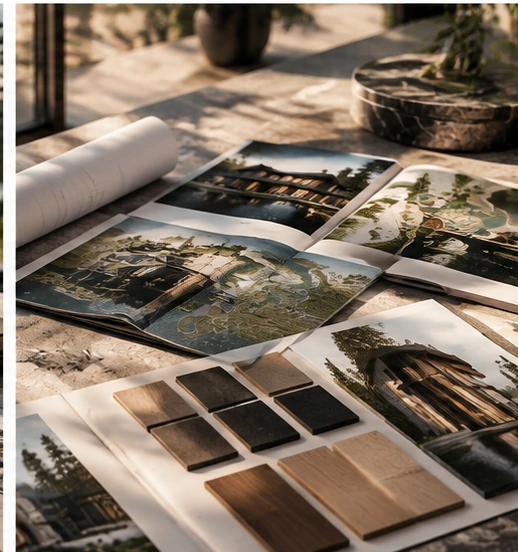
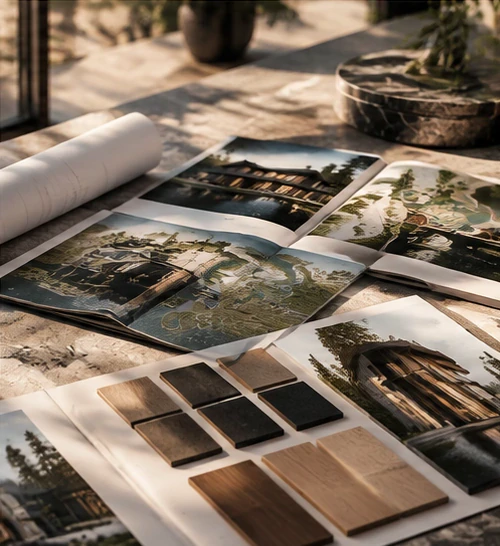
Add services image preview under the home-page 'Услуги' button
A centered 900px row of four square images (14px gaps) below the
'Услуги' CTA; 4-up on tablet, 2x2 on mobile; no borders, radius,
captions or hover effects, not clickable. Trim collage leftovers baked
into the left and top edges of the 02/03/04 service images.

Slot 01 points to /aure-services-01-analytics.webp, which still has to
be uploaded to public/.

Claude-Session: https://claude.ai/code/session_01PkP1x8frThUcmcgaPTpw5q

diff --git a/components/services-preview.tsx b/components/services-preview.tsx
@@ -1,0 +1,47 @@
+import Image from 'next/image'
+import { Reveal } from './reveal'
+
+const images = [
+  {
+    src: '/aure-services-01-analytics.webp',
+    alt: 'Аналитика продаж проекта загородной недвижимости',
+    className: 'object-center',
+  },
+  {
+    src: '/aure-services-02-branding.webp',
+    alt: 'Брендинг и упаковка: буклеты проекта и образцы материалов',
+    className: 'object-center',
+  },
+  {
+    src: '/aure-services-03-strategy.webp',
+    alt: 'Стратегия продвижения: флипчарт со схемами и графиками',
+    className: 'object-center',
+  },
+  {
+    src: '/aure-services-04-sales.webp',
+    alt: 'Продажи: переговорная с видом на озеро и материалами проекта',
+    className: 'object-center',
+  },
+]
+
+export function ServicesPreview() {
+  return (
+    <div className="mx-auto max-w-[1400px] px-5 pt-8 md:px-10 md:pt-10">
+      <Reveal>
+        <div className="mx-auto grid max-w-[900px] grid-cols-2 gap-2 sm:grid-cols-4 sm:gap-2.5 lg:gap-3.5">
+          {images.map((img) => (
+            <div key={img.src} className="relative aspect-square overflow-hidden">
+              <Image
+                src={img.src}
+                alt={img.alt}
+                fill
+                sizes="(min-width: 1024px) 215px, (min-width: 640px) 25vw, 50vw"
+                className={`block object-cover ${img.className}`}
+              />
+            </div>
+          ))}
+        </div>
+      </Reveal>
+    </div>
+  )
+}

diff --git a/app/page.tsx b/app/page.tsx
@@ -2,6 +2,7 @@ import { SiteHeader } from '@/components/site-header'
 import { Hero } from '@/components/hero'
 import { About } from '@/components/about'
 import { ServicesCta } from '@/components/services-cta'
+import { ServicesPreview } from '@/components/services-preview'
 import { Audience } from '@/components/audience'
 import { Services } from '@/components/services'
 import { MarketingSystem } from '@/components/system'
@@ -15,6 +16,7 @@ export default function Page() {
         <Hero />
         <About />
         <ServicesCta />
+        <ServicesPreview />
         <Audience />
         <Services />
         <MarketingSystem />
